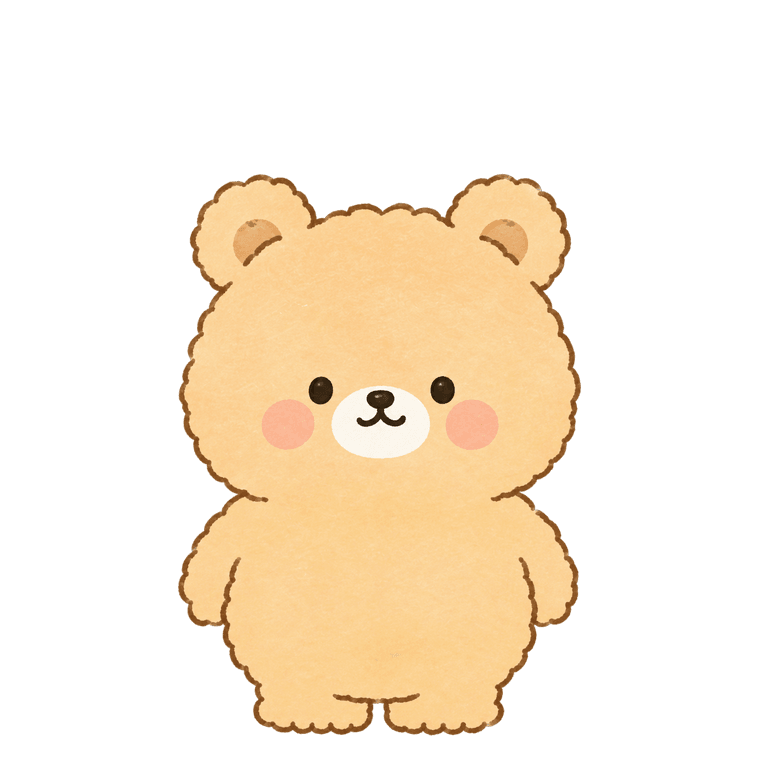
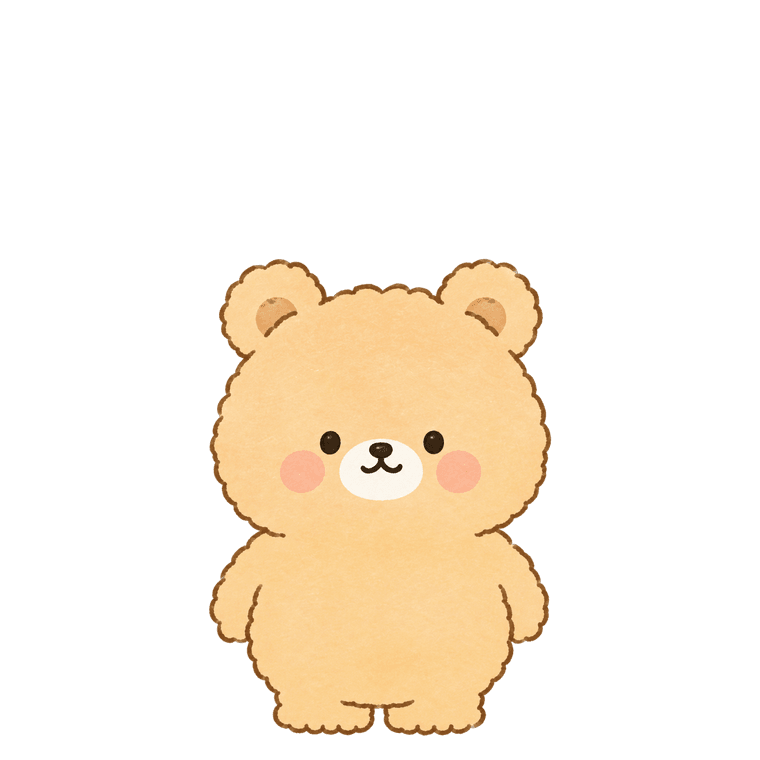
손잡이가 먹게 하고 · 곰토끼가 들어갈 자리를 만든다
손잡이가 안 먹었다. 미는 동안 tick마다 두 가지 무거운 일을 하고 있었다 —
원본 캔버스를 통째로 base64로 푸는 것(toDataURL)과 760짜리 PNG를 새로 굽는 것.
앨범에서 고른 1024×1536이면 한 tick에 수십 ms가 붙고, 손잡이는 한 번 끄는 동안
수십 번 튄다. 그래서 안 움직이는 것처럼 느껴졌다.

주소는 그림이 바뀔 때 한 번만 만든다. 굽는 것은 손이 멈춘 뒤 한 번만 한다.
끄는 동안 보이는 그림은 안 늦는다 — 그건 굽지 않고 CSS로 옮겨 놓는 것이다.

늦게 굽는 탓에 밀고 바로 저장을 누르면 한 발 늦은 것이 올라갈 수 있다.
담는 손을 따로 위로 넘겨서, 저장할 때 그 순간 값으로 굽는다.

그리고 크기가 비율대로 안 커진 것은 잘려서다. 기본 곰의 머리 위 여백이 174px뿐이라
131%에서 칸을 넘었는데, 곰토끼는 귀가 길어 얼굴을 맞추려면 142%가 필요하다 —
맞출 수가 없는 옷이 있었다.

기본 곰을 칸 안에서 줄여(0.79 → 0.67) 여백을 258px로 벌렸다. 이제 154%까지 된다.
줄인 만큼 앱의 칸을 키워서(72% → 85%) 화면에 뜨는 크기는 그대로다 —
자를 작게 그린 것이 아니라 자 위에 빈자리를 더 둔 것이다.

여백이 생겼으니 bears.mjs의 값도 딱 반비례로 되돌렸다. 일곱 걸음만 갔던 것은
곰토끼가 칸을 뚫어서였고, 이제 그 까닭이 없다. 다섯 마리 얼굴이 같은 크기로 선다.

Changed region(s): [[0.2118, 0.2118, 0.7868, 0.9684], [0.6053, 0.3934, 0.6658, 0.4539], [0.3329, 0.3934, 0.3934, 0.4539]]

diff --git a/src/screens/admin/Align.tsx b/src/screens/admin/Align.tsx
@@ -1,6 +1,6 @@
 'use client';
 
-import { useCallback, useEffect, useRef, useState } from 'react';
+import { useCallback, useEffect, useMemo, useRef, useState } from 'react';
 import { BUNDLED, DEFAULT_BEAR, DEFAULT_ROOM } from '@/lib/costumes';
 import {
   BODY,
@@ -41,9 +41,19 @@ export default function Align({
   /** 고르기 전이면 `null`. 올려둔 것을 고치는 중이면 그 주소 */
   had,
   onFitted,
+  onComposer,
 }: {
   had?: string;
+  /** 미리보기용 — **조금 늦게 온다.** 손잡이를 놓고 나서 담는다 */
   onFitted: (f: Fitted | null) => void;
+  /**
+   * 저장용 — **부르면 그때 담아준다.**
+   *
+   * 미리보기를 늦게 담는 탓에, 손잡이를 밀고 바로 저장을 누르면 **한 발 늦은 것이
+   * 올라갈 수 있다.** 그래서 담는 손을 따로 넘긴다 — 저장할 때 이걸 부르면
+   * 그 순간 값으로 담긴다.
+   */
+  onComposer: (make: (() => Promise<Fitted>) | null) => void;
 }) {
   const [spec, setSpec] = useState<Spec | null>(null);
   const [art, setArt] = useState<Art | null>(null);
@@ -125,18 +135,38 @@ export default function Align({
     };
   }, [file, white]);
 
-  /* 맞춘 대로 담아 위로 올려준다 — 저장은 폼이 한다 */
+  /*
+    **담는 것은 늦춘다.**
+
+    담기는 760짜리 PNG를 새로 굽는 일이다. 손잡이를 미는 동안 tick마다 굽게 두면
+    **손잡이가 안 움직이는 것처럼 느껴진다** — 한 tick에 수십 ms가 붙고,
+    손잡이는 한 번 끄는 동안 수십 번 튄다.
+
+    그래서 손이 멈춘 뒤에 한 번만 굽는다. 미리보기가 반 박자 늦게 바뀌는데,
+    **끄는 동안 보이는 그림은 늦지 않는다** — 그건 굽지 않고 CSS로 옮겨 놓는 것이다.
+
+    저장은 이 늦음을 안 탄다. 담는 손을 따로 넘겨서(`onComposer`)
+    누르는 그 순간 값으로 굽는다.
+  */
   useEffect(() => {
-    if (!art || !spec) return;
+    if (!art || !spec) {
+      onComposer(null);
+      return;
+    }
+    onComposer(() => fitBear(art, spec, fit));
+
     let dead = false;
-    void fitBear(art, spec, fit).then((next) => {
-      if (dead) URL.revokeObjectURL(next.url);
-      else onFitted(next);
-    });
+    const timer = setTimeout(() => {
+      void fitBear(art, spec, fit).then((next) => {
+        if (dead) URL.revokeObjectURL(next.url);
+        else onFitted(next);
+      });
+    }, 180);
     return () => {
       dead = true;
+      clearTimeout(timer);
     };
-    // onFitted는 폼이 매번 새로 만들어 넘겨도 다시 담을 까닭이 없다
+    // 위로 넘기는 손 둘은 폼이 매번 새로 만들어도 다시 구울 까닭이 없다
     // eslint-disable-next-line react-hooks/exhaustive-deps
   }, [art, spec, fit]);
 
@@ -177,6 +207,13 @@ export default function Align({
       </>
     );
   }
+
+  /*
+    **한 번만 만든다.** `toDataURL`은 캔버스를 통째로 base64로 푸는 일이라
+    앨범에서 고른 1024×1536짜리면 한 번에 수십 ms가 붙는다 —
+    그리는 자리마다 다시 만들면 손잡이가 그만큼 뻣뻣해진다.
+  */
+  const src = useMemo(() => art.canvas.toDataURL(), [art]);
 
   const pos = spec ? at(art, spec, fit) : null;
   const num = spec ? readout(art, spec, fit) : null;
@@ -236,7 +273,7 @@ export default function Align({
           {pos && (
             // eslint-disable-next-line @next/next/no-img-element
             <img
-              src={art.canvas.toDataURL()}
+              src={src}
               alt=""
               aria-hidden="true"
               className="absolute z-[1]"

diff --git a/src/screens/admin/AdminForm.tsx b/src/screens/admin/AdminForm.tsx
@@ -78,6 +78,14 @@ export default function AdminForm({
    * 이 폼에 섞으면 무엇이 무엇인지 못 가린다.
    */
   const [fitted, setFitted] = useState<Fitted | null>(null);
+  /**
+   * 곰을 담는 손 — [Align](Align.tsx)이 넘겨준다.
+   *
+   * 미리보기(`fitted`)는 손잡이가 멈춘 뒤에 굽는 것이라 **반 박자 늦다.**
+   * 밀고 바로 저장을 누르면 한 발 늦은 것이 올라갈 수 있어서,
+   * **저장할 때는 이 손으로 그 순간 값을 굽는다.**
+   */
+  const compose = useRef<null | (() => Promise<Fitted>)>(null);
   /** 방은 자를 맞출 것이 없다 — 정사각 한 장을 통째로 쓴다 */
   const [sceneFile, setSceneFile] = useState<File | null>(null);
   const scenePick = useRef<HTMLInputElement>(null);
@@ -162,8 +170,14 @@ export default function AdminForm({
         season: draft.season,
       });
 
-      // 맞춘 값은 이 blob에 이미 박혀 있다 — 올린 뒤에 앱이 다시 맞출 것이 없다
-      if (fitted) await uploadShopImage({ ...draft, key }, shop.families, fitted.blob);
+      /*
+        **누르는 그 순간 값으로 굽는다.** 미리보기는 반 박자 늦어서, 손잡이를 밀고
+        바로 누르면 한 발 늦은 것이 올라간다. 방은 담는 손이 없어 미리보기를 그대로 쓴다.
+
+        맞춘 값은 이 blob에 박혀 있다 — 올린 뒤에 앱이 다시 맞출 것이 없다.
+      */
+      const shot = compose.current ? await compose.current() : fitted;
+      if (shot) await uploadShopImage({ ...draft, key }, shop.families, shot.blob);
       /*
         **켜는 것이 맨 끝이다.** 그림을 올리기 전에 켜면 그 사이에 상점을 연 사람에게
         그림 없는 칸이 뜨고, 그건 `아직 안 그렸어요`가 아니라 파는 물건으로 읽힌다.
@@ -313,7 +327,14 @@ export default function AdminForm({
           곰과 소품은 **자에 맞춰 놓는다**([Align](Align.tsx)).
           `key`를 물건마다 갈라둔다 — 다른 물건으로 옮길 때 맞춘 값이 따라가면 안 된다.
         */
-        <Align key={itemKey ?? 'new'} had={was?.img} onFitted={setFitted} />
+        <Align
+          key={itemKey ?? 'new'}
+          had={was?.img}
+          onFitted={setFitted}
+          onComposer={(make) => {
+            compose.current = make;
+          }}
+        />
       )}
 
       {/* ── 그림이 가는 자리 ── */}

diff --git a/design/곰-맞추기.html b/design/곰-맞추기.html
@@ -123,7 +123,7 @@
 </p>
 
 <script>
-const D = {"bears":[{"key":"front","from":"assets/gomdori/front.png","src":"../assets/gomdori/front.png","w":1244,"h":1264,"x":210,"y":70,"cw":805,"ch":1123,"fit":{"scale":0.79}},{"key":"dragon","from":"assets/shop/deco/costume/gomdori/dragon.png","src":"../assets/shop/deco/costume/gomdori/dragon.png","w":1145,"h":1374,"x":51,"y":1,"cw":1081,"ch":1293,"fit":{"scale":0.85}},{"key":"princess","from":"assets/shop/deco/costume/gomdori/princess.png","src":"../assets/shop/deco/costume/gomdori/princess.png","w":1254,"h":1254,"x":79,"y":56,"cw":1093,"ch":1128,"fit":{"scale":0.81}},{"key":"rabbit","from":"assets/shop/deco/costume/gomdori/rabbit.png","src":"../assets/shop/deco/costume/gomdori/rabbit.png","w":1024,"h":1536,"x":83,"y":58,"cw":859,"ch":1414,"fit":{"scale":1}},{"key":"wizard","from":"assets/shop/deco/costume/gomdori/wizard.png","src":"../assets/shop/deco/costume/gomdori/wizard.png","w":1224,"h":1285,"x":221,"y":1,"cw":911,"ch":1233,"fit":{"scale":0.9}}],"BODY":760,"TALL":0.94,"FLOOR":0.03,"SLOT":{"stage":72,"home":92},"room":"../public/gomdori/room.png"};
+const D = {"bears":[{"key":"front","from":"assets/gomdori/front.png","src":"../assets/gomdori/front.png","w":1244,"h":1264,"x":210,"y":70,"cw":805,"ch":1123,"fit":{"scale":0.67}},{"key":"dragon","from":"assets/shop/deco/costume/gomdori/dragon.png","src":"../assets/shop/deco/costume/gomdori/dragon.png","w":1145,"h":1374,"x":51,"y":1,"cw":1081,"ch":1293,"fit":{"scale":0.74}},{"key":"princess","from":"assets/shop/deco/costume/gomdori/princess.png","src":"../assets/shop/deco/costume/gomdori/princess.png","w":1254,"h":1254,"x":79,"y":56,"cw":1093,"ch":1128,"fit":{"scale":0.68}},{"key":"rabbit","from":"assets/shop/deco/costume/gomdori/rabbit.png","src":"../assets/shop/deco/costume/gomdori/rabbit.png","w":1024,"h":1536,"x":83,"y":58,"cw":859,"ch":1414,"fit":{"scale":0.95}},{"key":"wizard","from":"assets/shop/deco/costume/gomdori/wizard.png","src":"../assets/shop/deco/costume/gomdori/wizard.png","w":1224,"h":1285,"x":221,"y":1,"cw":911,"ch":1233,"fit":{"scale":0.81}}],"BODY":760,"TALL":0.94,"FLOOR":0.03,"SLOT":{"stage":85,"home":85},"room":"../public/gomdori/room.png"};
 const stage = document.getElementById('stage');
 /* 곰이 칸의 몇 %로 뜨나 — 상점 걸쳐보는 칸과 홈 칸이 다르다 */
 let W = D.SLOT.stage;

diff --git a/src/lib/stage.ts b/src/lib/stage.ts
@@ -46,7 +46,7 @@ export const BEAR_FLOOR = 9;
  *
  * **`scripts/bears.mjs`의 `SLOT`이 이 값을 베껴 쓴다**(node에서는 이 파일을 못 읽는다).
  */
-export const BEAR_ART = 'relative z-[1] mb-[9%] block h-auto max-h-[74%] w-auto max-w-[72%]';
+export const BEAR_ART = 'relative z-[1] mb-[9%] block h-auto max-h-[85%] w-auto max-w-[85%]';
 
 /** 방 한 장 — 칸을 꽉 채운다. **아래를 맞춰 자른다** */
 export const ROOM_ART = 'absolute inset-0 h-full w-full object-cover object-bottom';
